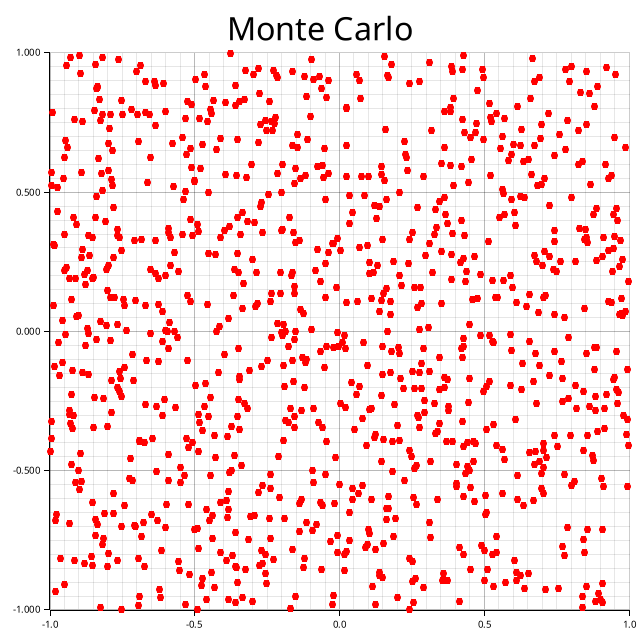
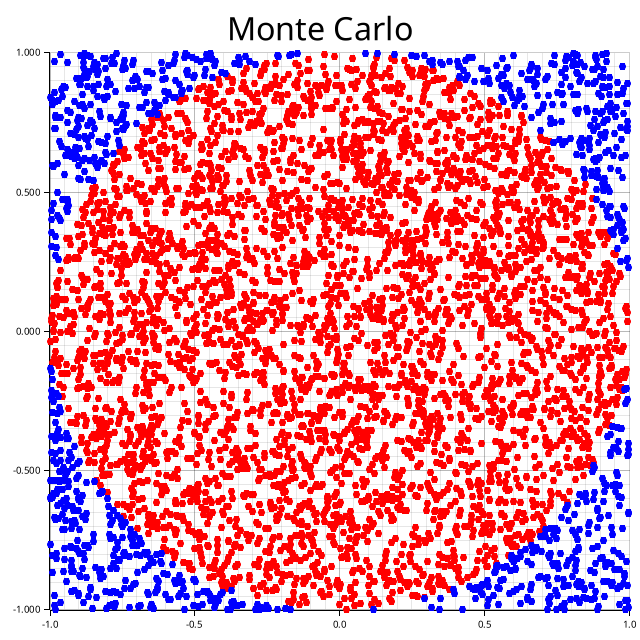
display circle in graph

diff --git a/src/main.rs b/src/main.rs
@@ -2,7 +2,7 @@ use plotters::prelude::*;
 use std::iter::zip;
 
 fn main() -> Result<(), Box<dyn std::error::Error>> {
-    let sample_size = 1000;
+    let sample_size = 5000;
     let x = generate_list_of_random_values(sample_size);
     let y = generate_list_of_random_values(sample_size);
 
@@ -23,13 +23,40 @@ fn main() -> Result<(), Box<dyn std::error::Error>> {
         .y_label_formatter(&|x| format!("{:.3}", x))
         .draw()?;
 
-    chart.draw_series(PointSeries::of_element(zip(x, y), 3, &RED, &|c, s, st| {
-        EmptyElement::at(c) + Circle::new((0, 0), s, st.filled())
-    }))?;
+    let within_circle: Vec<(f32, f32)> = x
+        .iter()
+        .zip(y.iter())
+        .filter(|&(i, j)| i * i + j * j <= 1.0)
+        .map(|(i, j)| (*i, *j))
+        .collect();
+
+    let outside_circle: Vec<(f32, f32)> = x
+        .iter()
+        .zip(y.iter())
+        .filter(|&(i, j)| i * i + j * j > 1.0)
+        .map(|(i, j)| (*i, *j))
+        .collect();
+
+    chart.draw_series(PointSeries::of_element(
+        within_circle.clone(),
+        3,
+        &RED,
+        &|c, s, st| EmptyElement::at(c) + Circle::new((0, 0), s, st.filled()),
+    ))?;
+
+    chart.draw_series(PointSeries::of_element(
+        outside_circle.clone(),
+        3,
+        &BLUE,
+        &|c, s, st| EmptyElement::at(c) + Circle::new((0, 0), s, st.filled()),
+    ))?;
 
     root.present()?;
 
-    println!("{:?}", monte_carlo_pi(sample_size));
+    println!(
+        "{:?}",
+        monte_carlo_pi(sample_size, within_circle.iter().count())
+    );
 
     Ok(())
 }
@@ -42,16 +69,6 @@ fn generate_list_of_random_values(size: usize) -> Vec<f32> {
     (0..size).map(|_| generate_random_float()).collect()
 }
 
-fn monte_carlo_pi(num_samples: usize) -> f32 {
-    let x = generate_list_of_random_values(num_samples);
-    let y = generate_list_of_random_values(num_samples);
-
-    let mut points_inside_circle = 0;
-    for (xi, yi) in x.iter().zip(y.iter()) {
-        if xi * xi + yi * yi <= 1.0 {
-            points_inside_circle += 1;
-        }
-    }
-
+fn monte_carlo_pi(num_samples: usize, points_inside_circle: usize) -> f32 {
     4.0 * (points_inside_circle as f32) / (num_samples as f32)
 }